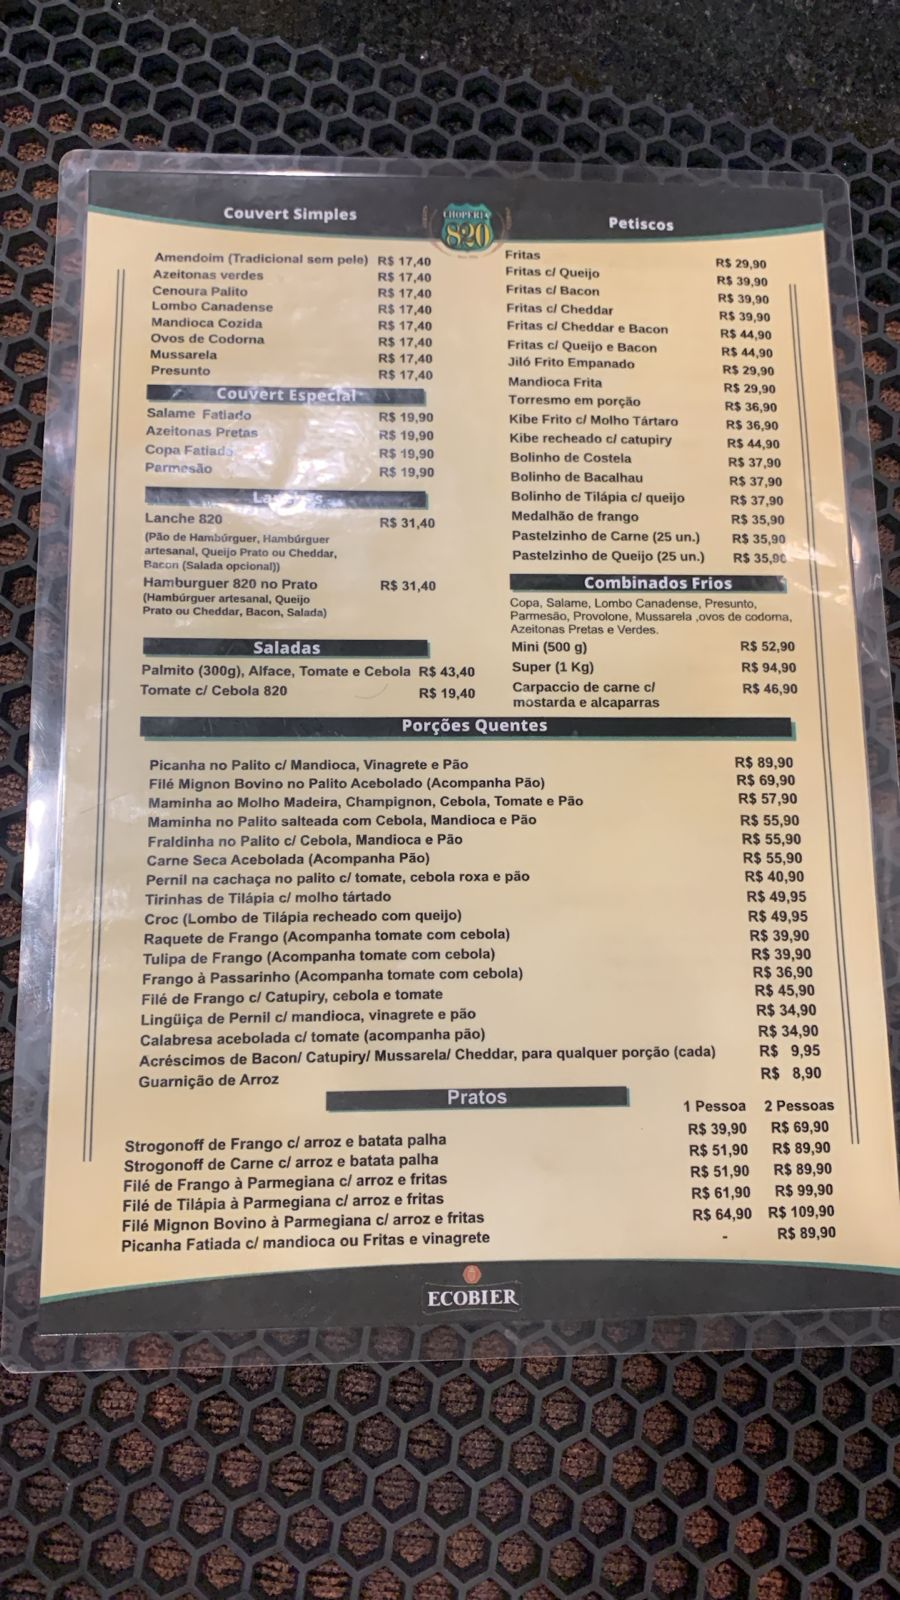
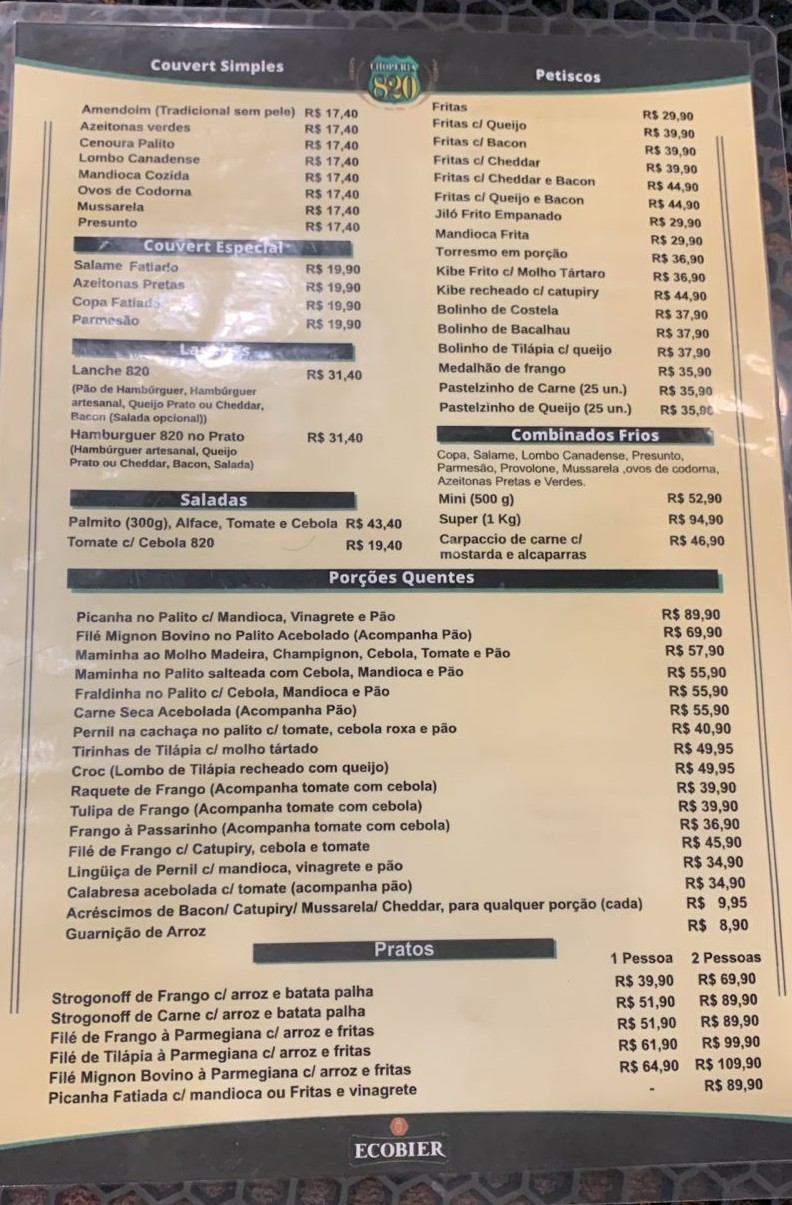
atualizando imagens

diff --git a/lib/services/mock_data_service.dart b/lib/services/mock_data_service.dart
@@ -18,7 +18,7 @@ class MockDataService {
     'Pratos',
   ];
 
-  static const String _logo = 'assets/images/logo.jpg';
+  static const String logo = 'assets/images/logo.jpg';
   static const String _menu = 'assets/images/cardapio.jpg';
   static const String _adicionais = 'assets/images/produtos/adicionais.jpg';
 
@@ -28,7 +28,7 @@ class MockDataService {
       name: 'Amendoim Tradicional',
       description: 'Couvert simples de amendoim com pele.',
       price: 17.40,
-      image: _menu,
+      image: 'assets/images/produtos/amendoimtradicional.jpg',
       category: 'Couvert Simples',
       ingredients: <String>['Amendoim torrado', 'Sal'],
     ),
@@ -37,7 +37,7 @@ class MockDataService {
       name: 'Azeitonas Verdes',
       description: 'Porcao fria para acompanhar o chope.',
       price: 17.40,
-      image: _menu,
+      image: 'assets/images/produtos/azeitonaverde.jpg',
       category: 'Couvert Simples',
       ingredients: <String>['Azeitonas verdes', 'Temperos da casa'],
     ),
@@ -46,7 +46,7 @@ class MockDataService {
       name: 'Cenoura Palito',
       description: 'Legumes em tiras, ideal para petiscar.',
       price: 17.40,
-      image: _menu,
+      image: 'assets/images/produtos/cenouranopalito.jpg',
       category: 'Couvert Simples',
       ingredients: <String>['Cenoura fresca', 'Tempero leve'],
     ),
@@ -55,7 +55,7 @@ class MockDataService {
       name: 'Mussarela',
       description: 'Mussarela em porcao fria.',
       price: 17.40,
-      image: _logo,
+      image: 'assets/images/produtos/mussarela.jpg',
       category: 'Couvert Simples',
       ingredients: <String>['Mussarela fatiada'],
     ),
@@ -64,7 +64,7 @@ class MockDataService {
       name: 'Fritas com Queijo',
       description: 'Petisco classico para dividir.',
       price: 39.90,
-      image: _logo,
+      image: 'assets/images/produtos/fritascomqueijo.jpg',
       category: 'Petiscos',
       ingredients: <String>['Batata frita', 'Queijo derretido', 'Sal'],
     ),
@@ -73,7 +73,7 @@ class MockDataService {
       name: 'Fritas com Bacon',
       description: 'Batata crocante coberta com bacon.',
       price: 39.90,
-      image: _logo,
+      image: 'assets/images/produtos/fritascombacon.jpg',
       category: 'Petiscos',
       ingredients: <String>['Batata frita', 'Bacon crocante', 'Sal'],
     ),
@@ -100,7 +100,7 @@ class MockDataService {
       name: 'Mandioca Frita',
       description: 'Mandioca dourada e sequinha.',
       price: 29.90,
-      image: _menu,
+      image: 'assets/images/produtos/mandiocafrita.jpg',
       category: 'Petiscos',
       ingredients: <String>['Mandioca', 'Sal', 'Tempero da casa'],
     ),
@@ -218,7 +218,7 @@ class MockDataService {
       name: 'Tomate e Cebola 280g',
       description: 'Salada classica de acompanhamento.',
       price: 19.40,
-      image: _menu,
+      image: 'assets/images/produtos/tomatecomcebola.jpg',
       category: 'Saladas',
       ingredients: <String>['Tomate', 'Cebola', 'Azeite', 'Sal'],
     ),
@@ -227,7 +227,7 @@ class MockDataService {
       name: 'Lanche 820',
       description: 'Sanduiche artesanal completo da casa.',
       price: 31.40,
-      image: _logo,
+      image: 'assets/images/produtos/lanche820.jpg',
       category: 'Lanche 820',
       ingredients: <String>[
         'Pao de hamburguer',
@@ -243,7 +243,7 @@ class MockDataService {
       name: 'Hamburguer 820 no prato',
       description: 'Hamburguer no prato da casa.',
       price: 31.40,
-      image: 'assets/images/produtos/fritas.jpg',
+      image: 'assets/images/produtos/hamburguernoprato.jpg',
       category: 'Lanche 820',
       ingredients: <String>[
         'Hamburguer artesanal',